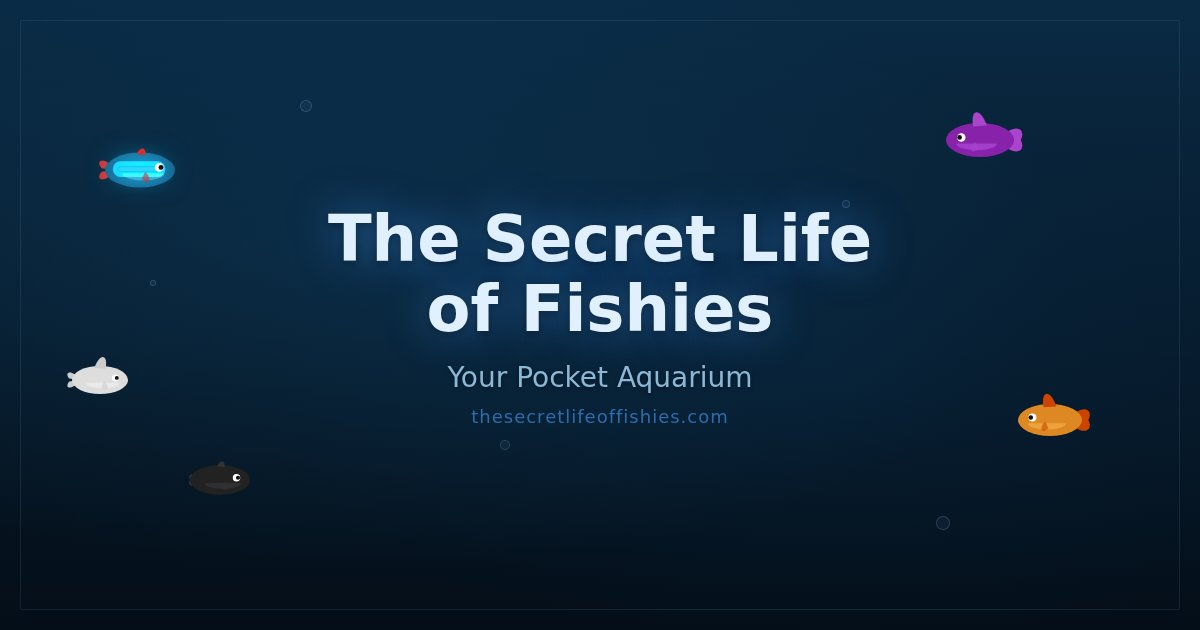
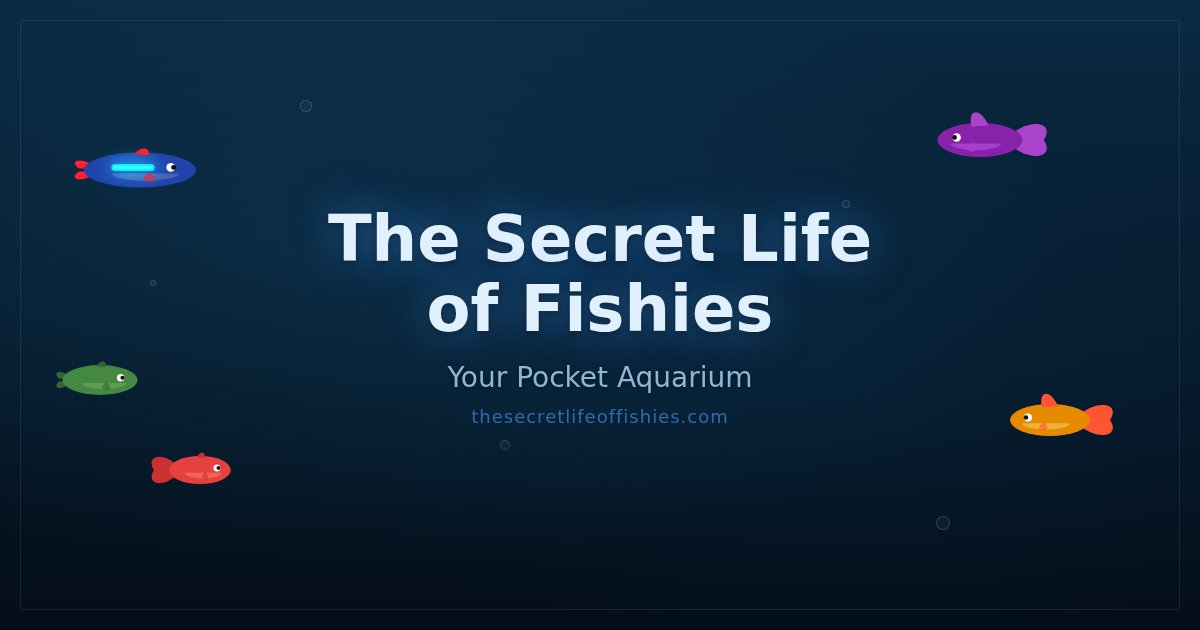
Refine fish art: slimmer neon, tighter glow stripe, bigger fan tails
- Neon Tetra aspect 2.8 -> 3.2 (slimmer body)
- Glow stripe: narrower, shorter, shifted up to clear eye and fin
- Fan tail style pushed further out for visible tails on guppy/betta/platy
- Updated social card to match

diff --git a/js/fish.js b/js/fish.js
@@ -5,7 +5,7 @@ import { getFoods } from './food.js';
 import { getWaterQuality } from './tank.js';
 
 export const SPECIES_CATALOG = [
-    { name: 'Neon Tetra',     sizeInches: 1,   level: 1, body: '#2244aa', fin: '#ff2030', belly: '#8090bb', speed: 60, aspect: 2.8, tailStyle: 'fork',  finStyle: 'small', glowStripe: '#00ffff' },
+    { name: 'Neon Tetra',     sizeInches: 1,   level: 1, body: '#2244aa', fin: '#ff2030', belly: '#8090bb', speed: 60, aspect: 3.2, tailStyle: 'fork',  finStyle: 'small', glowStripe: '#00ffff' },
     { name: 'Guppy',          sizeInches: 1.5, level: 1, body: '#e68a00', fin: '#ff5533', belly: '#ffe0a0', speed: 55, aspect: 2.5, tailStyle: 'fan',   finStyle: 'small' },
     { name: 'Platy',          sizeInches: 2,   level: 2, body: '#e64040', fin: '#cc3030', belly: '#ffa070', speed: 50, aspect: 2.2, tailStyle: 'fan',   finStyle: 'medium' },
     { name: 'Danio',          sizeInches: 1.5, level: 2, body: '#3070dd', fin: '#4090ff', belly: '#d0e8ff', speed: 70, aspect: 3.0, tailStyle: 'fork',  finStyle: 'small' },
@@ -294,11 +294,11 @@ export class Fish {
                               -bodyW * 1.1, bodyH * 0.1 + tailWag * bodyH * 0.5);
         } else if (this.species.tailStyle === 'fan') {
             ctx.moveTo(-bodyW * 0.6, 0);
-            ctx.bezierCurveTo(-bodyW * 0.9, -bodyH * 1.0 + tailWag * bodyH,
-                              -bodyW * 1.4, -bodyH * 0.8 + tailWag * bodyH,
-                              -bodyW * 1.2, 0 + tailWag * bodyH * 0.5);
-            ctx.bezierCurveTo(-bodyW * 1.4, bodyH * 0.8 + tailWag * bodyH,
-                              -bodyW * 0.9, bodyH * 1.0 + tailWag * bodyH,
+            ctx.bezierCurveTo(-bodyW * 1.1, -bodyH * 1.4 + tailWag * bodyH,
+                              -bodyW * 1.8, -bodyH * 1.1 + tailWag * bodyH,
+                              -bodyW * 1.5, 0 + tailWag * bodyH * 0.5);
+            ctx.bezierCurveTo(-bodyW * 1.8, bodyH * 1.1 + tailWag * bodyH,
+                              -bodyW * 1.1, bodyH * 1.4 + tailWag * bodyH,
                               -bodyW * 0.6, 0);
         } else if (this.species.tailStyle === 'sword') {
             ctx.moveTo(-bodyW * 0.7, 0);
@@ -337,42 +337,45 @@ export class Fish {
         if (this.species.glowStripe) {
             const sc = this.species.glowStripe;
             const baseAlpha = this.leaving ? 1 - this.leaveProgress : 1;
+            const stripeL = -bodyW * 0.45;
+            const stripeR = bodyW * 0.2;
+            const stripeY = -bodyH * 0.15;
             // Wide soft bloom
             ctx.save();
             ctx.globalCompositeOperation = 'lighter';
             ctx.globalAlpha = baseAlpha * 0.5;
             ctx.strokeStyle = sc;
-            ctx.lineWidth = bodyH * 0.9;
+            ctx.lineWidth = bodyH * 0.4;
             ctx.lineCap = 'round';
             ctx.shadowColor = sc;
-            ctx.shadowBlur = bodyH * 1.5;
+            ctx.shadowBlur = bodyH * 1.0;
             ctx.beginPath();
-            ctx.moveTo(-bodyW * 0.55, -bodyH * 0.05);
-            ctx.lineTo(bodyW * 0.5, -bodyH * 0.05);
+            ctx.moveTo(stripeL, stripeY);
+            ctx.lineTo(stripeR, stripeY);
             ctx.stroke();
             ctx.restore();
             // Bright core stripe
             ctx.save();
             ctx.globalAlpha = baseAlpha;
             ctx.strokeStyle = '#ffffff';
-            ctx.lineWidth = bodyH * 0.22;
+            ctx.lineWidth = bodyH * 0.15;
             ctx.lineCap = 'round';
             ctx.shadowColor = sc;
-            ctx.shadowBlur = bodyH * 1.2;
+            ctx.shadowBlur = bodyH * 0.9;
             ctx.beginPath();
-            ctx.moveTo(-bodyW * 0.55, -bodyH * 0.05);
-            ctx.lineTo(bodyW * 0.5, -bodyH * 0.05);
+            ctx.moveTo(stripeL, stripeY);
+            ctx.lineTo(stripeR, stripeY);
             ctx.stroke();
             ctx.restore();
             // Saturated color layer on top
             ctx.save();
             ctx.globalAlpha = baseAlpha * 0.8;
             ctx.strokeStyle = sc;
-            ctx.lineWidth = bodyH * 0.35;
+            ctx.lineWidth = bodyH * 0.25;
             ctx.lineCap = 'round';
             ctx.beginPath();
-            ctx.moveTo(-bodyW * 0.55, -bodyH * 0.05);
-            ctx.lineTo(bodyW * 0.5, -bodyH * 0.05);
+            ctx.moveTo(stripeL, stripeY);
+            ctx.lineTo(stripeR, stripeY);
             ctx.stroke();
             ctx.restore();
         }
